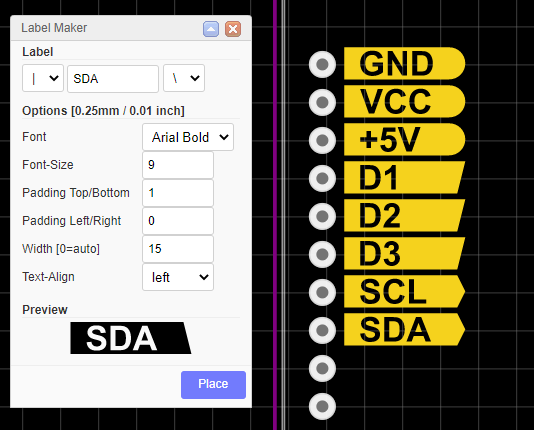
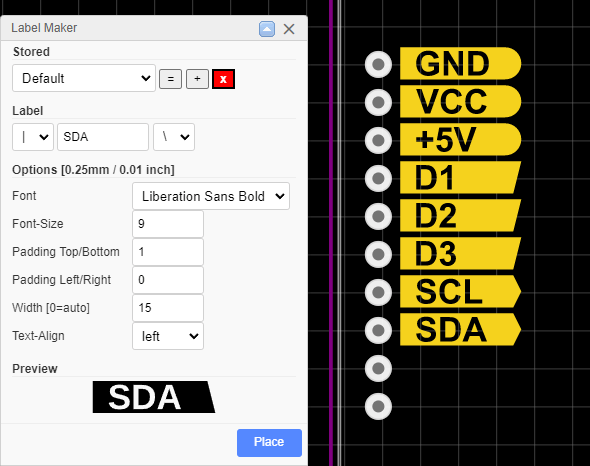
Added functionality to allow you to save and recall your favourite label settings.

diff --git a/extension/main.js b/extension/main.js
@@ -69,6 +69,64 @@ var aboutdlg = api('createDialog', {
 	]
 });
 
+var deleteokdlg = api('createDialog', {
+	title: `${manifest.name} - Delete Settings`,
+    content : `
+    <div style="padding: 8px; text-align: center">
+	Are you sure you want to delete this setting ?
+    </div>
+`,
+	width : 320,
+	modal : true,
+	collapsible: false,
+	resizable: false,
+	buttons : [
+		{
+			text : 'Yes',
+			cmd : createCommand(()=>{ 
+				removeSelectedSetting();
+				deleteokdlg.dialog('close');
+			})
+		},
+		{
+			text : 'Cancel',
+			cmd : 'dialog-close'
+		}
+	]
+});
+
+var storesavedlg = api('createDialog', {
+	title: `${manifest.name} - Store Label Settings`,
+    content : `
+    <div style="padding: 8px; text-align: center">
+		<fieldset>
+			<div class="grid">
+			    <label for="extension-${extensionId}-savename" class="i18n">New Save Name</label>
+				<input type="text" id="extension-${extensionId}-savename" value="" placeholder="Label Name" />
+			</div>
+		</fieldset>
+    </div>
+`,
+	width : 320,
+	modal : true,
+	collapsible: false,
+	resizable: false,
+	buttons : [
+		{
+			text : 'Save',
+			cmd : createCommand(()=>{ 
+				saveNewSettings($(`#extension-${extensionId}-savename`).val());
+				storesavedlg.dialog('close');
+				loadStoredSettingsIntoSelect();
+			})
+		},
+		{
+			text : 'Cancel',
+			cmd : 'dialog-close'
+		}
+	]
+});
+
 var labeldlg = api('createDialog', {
 	title: `${manifest.name}`,
 	content : `
@@ -96,6 +154,17 @@ var labeldlg = api('createDialog', {
     }
 	</style>
 	<div id="extension-${extensionId}-dlg">
+		<fieldset>
+			<legend class="i18n">Stored</legend>
+			<div>
+				<select id="extension-${extensionId}-stored">
+					<option class="default" value='{"shape-left":"(","text":"GND","shape-right":")","font":"Liberation Sans Bold","size":"9","padding-y":"1","padding-x":"0","width":"0","textalign":"left"}'>Default</option>					
+				</select>
+				<input type="button" id="extension-${extensionId}-storedupdate" value="=" title="Update this stored setting from current values"/>
+				<input type="button" id="extension-${extensionId}-storedsave" value="+" title="Save current values a new stored setting" />
+				<input type="button" id="extension-${extensionId}-storeddelete" value="x" title="Delete this stored setting" style="background-color:red;color: white;font-weight: bold;border: 2px solid black;" />
+			</div>
+		</fieldset>
 		<fieldset>
 			<legend class="i18n">Label</legend>
 			<div>
@@ -169,11 +238,19 @@ var labeldlg = api('createDialog', {
 });
 
 // Add Event-Listeners to GUI
-document.querySelector(`#extension-${extensionId}-dlg`).querySelectorAll('input,select').forEach((el)=>{
+document.querySelector(`#extension-${extensionId}-dlg`).querySelectorAll('input,select,button').forEach((el)=>{
+	
 	el.addEventListener('change',(e)=>{
-		previewLabel();
-		setConfig(el.id,$('#'+el.id).val());
+		if ( el.id == `extension-${extensionId}-stored` ) {
+			restoreSelectionValues();
+			previewLabel();
+		}
+		else {
+			previewLabel();	
+			setConfig(el.id,$('#'+el.id).val());
+		}
 	});
+
 	el.addEventListener('keypress',(e)=>{
 		if(e.key=='Enter') {
 			$(`#extension-${extensionId}-text`).select();
@@ -181,6 +258,25 @@ document.querySelector(`#extension-${extensionId}-dlg`).querySelectorAll('input,
 			placeLabel();
 		}
 	});
+
+	if ( el.type == "button" ) {
+		if ( el.id == `extension-${extensionId}-storeddelete`) {
+			el.addEventListener('click',(e)=>{				
+				deleteokdlg.dialog('open');	
+			});
+		}
+		else if ( el.id == `extension-${extensionId}-storedsave`){
+			el.addEventListener('click',(e)=>{
+				storesavedlg.dialog('open');
+			});
+		}
+		else if ( el.id == `extension-${extensionId}-storedupdate`){
+			el.addEventListener('click',(e)=>{
+				var dropdown = $(`#extension-${extensionId}-stored`);
+				saveNewSettings(dropdown.find(":selected").text());
+			});
+		}
+	}
 });
 
 loadBundledFonts();
@@ -193,6 +289,64 @@ setTimeout(updateFontsCache,1e3); // Files aren't always available right away, s
 /*
 	Functions
 */
+function removeSelectedSetting() {
+	var dropdown = $(`#extension-${extensionId}-stored`);
+	var dropdownSelectedText = dropdown.find(":selected").text();
+	Helper.setStoredConfig(dropdownSelectedText,null);
+	loadStoredSettingsIntoSelect();
+}
+
+function restoreSelectionValues() {
+	
+	var dropdown = $(`#extension-${extensionId}-stored`);
+	var dropdownSelectedText = dropdown.find(":selected").text() || 'Default';
+	var storedConfig = Helper.getAllStoredConfig();
+	
+	var jp = {};
+	if ( dropdownSelectedText != "" ) jp = JSON.parse(storedConfig[dropdownSelectedText]);
+	
+	$.each( jp, function (a,b) { 
+		$(`#extension-${extensionId}-` + a).val(b);
+	});
+	
+}
+
+function loadStoredSettingsIntoSelect() {
+// load stored config from system and populate the dropdown
+
+	var storedConfig = Helper.getAllStoredConfig();
+	var dropdown = $(`#extension-${extensionId}-stored`);
+	var dropdownSelectedText = dropdown.find(":selected").text();
+
+	dropdown.find('option').remove();
+
+	$.each(storedConfig, function (key,value) {
+		dropdown.append(
+			$('<option>', {
+			"value": value,
+			"text": key
+			})
+		);
+	});
+	
+	dropdown.val(dropdownSelectedText);
+}
+
+function saveNewSettings(name) {
+// create a new stored config based on current values
+	
+	var jsonSave = {};	
+	
+	document.querySelector(`#extension-${extensionId}-dlg`).querySelectorAll('input,select').forEach((el)=>{
+		if ( ('|extension-labelmaker-stored|extension-labelmaker-storedsave|extension-labelmaker-storeddelete|extension-labelmaker-storedupdate|').indexOf('|' + el.id + '|') == -1 ) {
+			var propName = el.id.replace("extension-labelmaker-","");
+			jsonSave[propName] = $('#'+el.id).val();
+		}
+
+	});
+	Helper.setStoredConfig(name,JSON.stringify(jsonSave));
+
+}
 
 function loadBundledFonts() {
 	// Loads *.ttf fonts that were bundled with the extension into EasyEDAs Fonts database
@@ -231,6 +385,8 @@ function initDialog() {
 	document.querySelector(`#extension-${extensionId}-dlg`).querySelectorAll('input,select').forEach((el)=>{
 		if(v = getConfig(el.id,false)) $('#'+el.id).val(v);
 	})
+	loadStoredSettingsIntoSelect();
+	restoreSelectionValues();
 }
 
 function getLabelOptions() {

diff --git a/extension/easyeda-helper.js b/extension/easyeda-helper.js
@@ -52,6 +52,41 @@ instance.Helper = class Helper {
         }	
     }
 
+    static setStoredConfig(key,value) {
+        var conf = {};
+        try {
+			conf = this.getAllStoredConfig();
+        } catch (error) {
+            conf = {};
+			console.log(error);
+        }
+        conf[key] = value;
+		
+        if(value === null) delete conf[key];
+        localStorage.setItem(`extension.${extensionId}.storedconfig`,JSON.stringify(conf));
+    }
+
+    static getStoredConfig(key, defaultValue) {
+        try {
+			var conf = this.getAllStoredConfig();
+            if(!(key in conf)) return defaultValue;
+            return conf[key];
+        } catch (error) {
+            return defaultValue;
+        }
+    }
+
+    static getAllStoredConfig() {
+        try {
+            var conf = localStorage.getItem(`extension.${extensionId}.storedconfig`) || '{}';
+            conf = JSON.parse(conf);
+			conf['Default'] = JSON.stringify({"shape-left":"(","text":"GND","shape-right":")","font":"Liberation Sans Bold","size":"9","padding-y":"1","padding-x":"0","width":"0","textalign":"left"});
+            return conf;
+        } catch (error) {
+            return {};
+        }
+    }
+	
     static setConfig(key,value) {
         var conf = {};
         try {

diff --git a/readme.md b/readme.md
@@ -17,11 +17,27 @@ After install, a "Label Maker" menu should show up in the PCB editor. Click "Cre
 
 Labels are placed to the currently active pcb layer.
 
+## Stored
+This allows you to store a label settings or option (see below) for later recall.
+1) To Store label setting : Click + button, a dialog will open to allow you to provide a name<br/>
+<img src="media/SaveLabel.png" alt="Screenshot of EasyEDAs menu with extension installed"/><br/>Click Save
+
+2) To Recall label settings : Click the dropdown and select your previously saved label.<br/>
+<img src="media/StoredRecall.png" alt="Screenshot of EasyEDAs menu with extension installed"/>
+
+3) To Remove label settings : Select the label from the dropdown (see item 2 above), click the red X Button, a dialog will ask you to confirm removal.<br/>
+<img src="media/OkToRemove.png" alt="Screenshot of EasyEDAs menu with extension installed"/>
+
+**note:
+The stored settings are within the local browser only. <br/>
+An Export / Import function is coming soon (20240415)
+
+
 ### Options
-All measurements in the options are about 0.01 inch or 0.25 mm. I fugured any conversion it is not necessary here because exact measurments are usually not required for labels and you better go by "the looks" of it. Also the actual font family used may affect measurments slightly.
+All measurements in the options are about 0.01 inch or 0.25 mm. I figured any conversion it is not necessary here because exact measurements are usually not required for labels and you better go by "the looks" of it. Also the actual font family used may affect measurments slightly.
 
 ### Font
-You can choose any font that is ailable in EasyEDA except the default ones of EasyEDA (for some reason these are not shipped by EasyEDA but used via API calls). Since you may not have additional fonts installed, this extension comes with one so you have at least one to select from.
+You can choose any font that is available in EasyEDA except the default ones of EasyEDA (for some reason these are not shipped by EasyEDA but used via API calls). Since you may not have additional fonts installed, this extension comes with one so you have at least one to select from.
 You can install additional fonts (ttf, otf or woff) via EasyEDAs *Fonts Manager*. You may have to hit "Rebuild Fonts Cache" after you installed a new font.
 
 *Tipp:* On Windows, drag'n'drop fonts from the system fonts directory to a regular directory to get access to the ttf files. You can access the fonts directory by running (Win+R) "shell:fonts".
